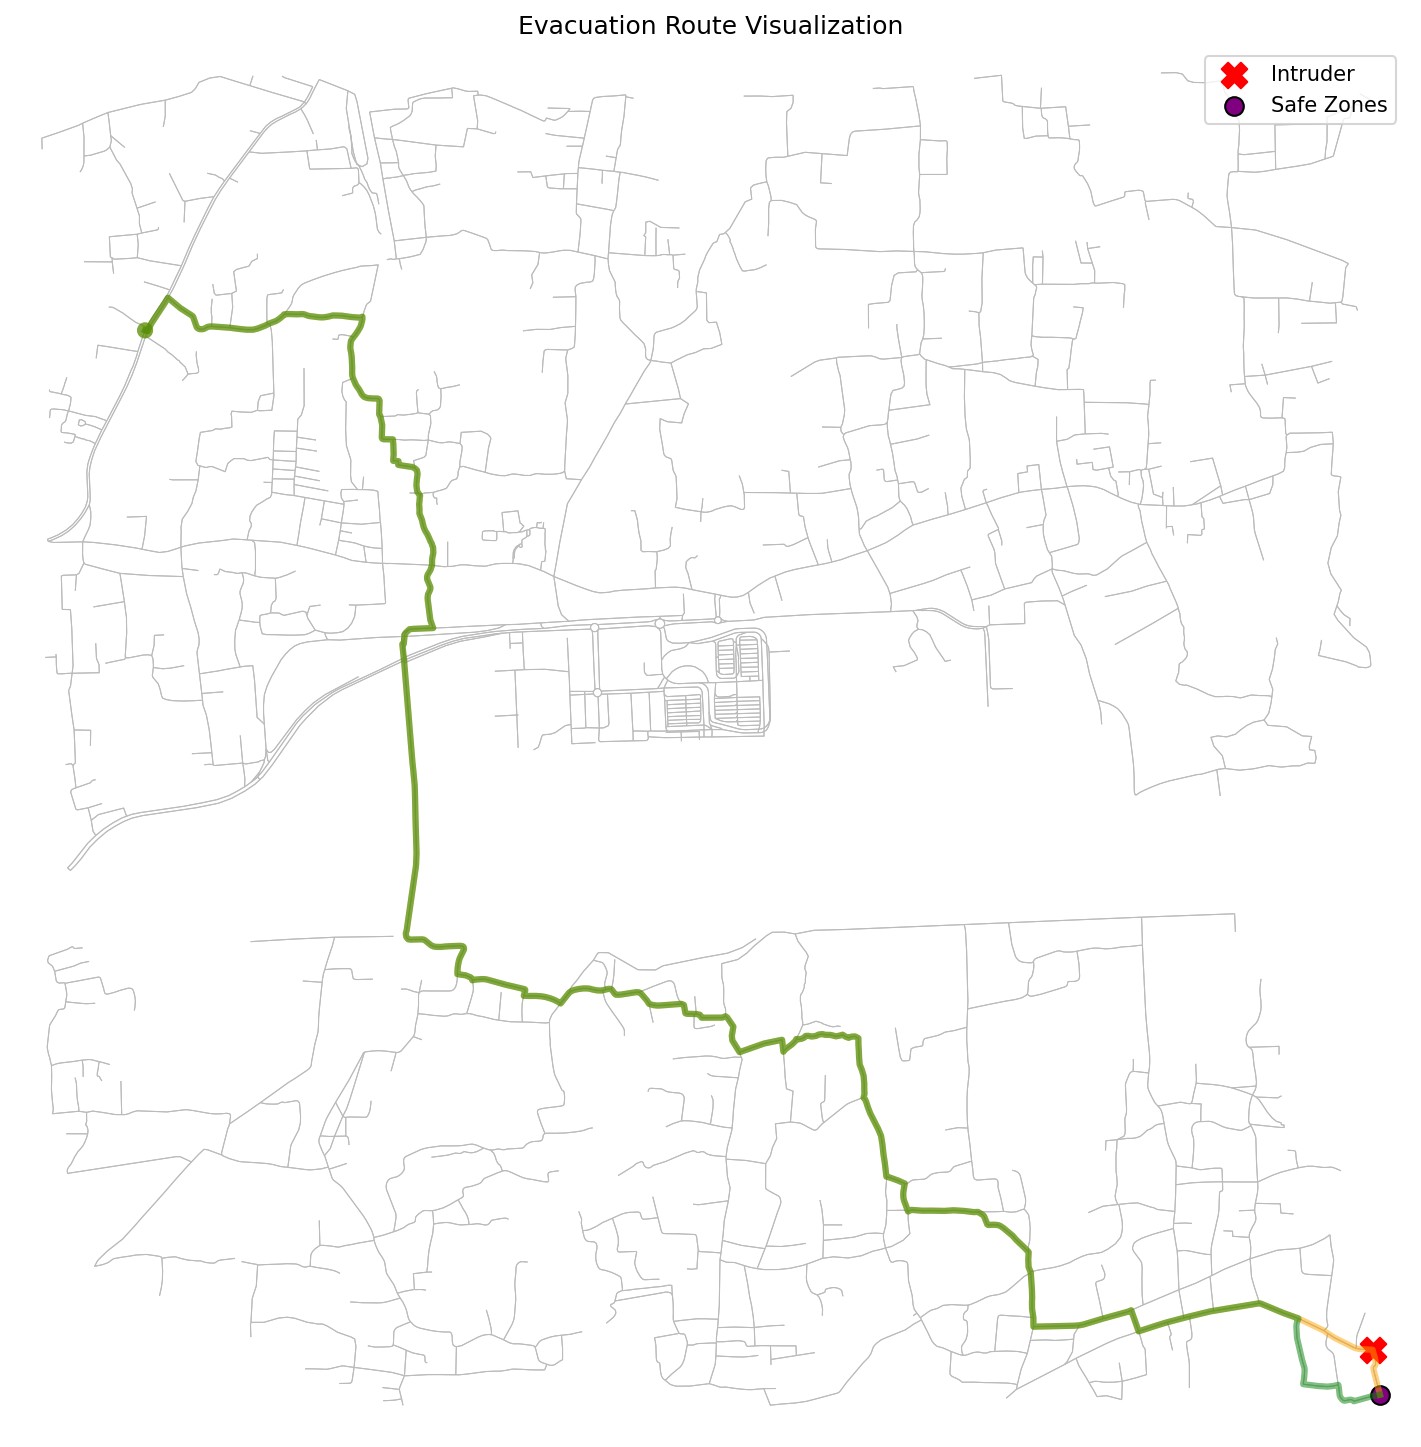
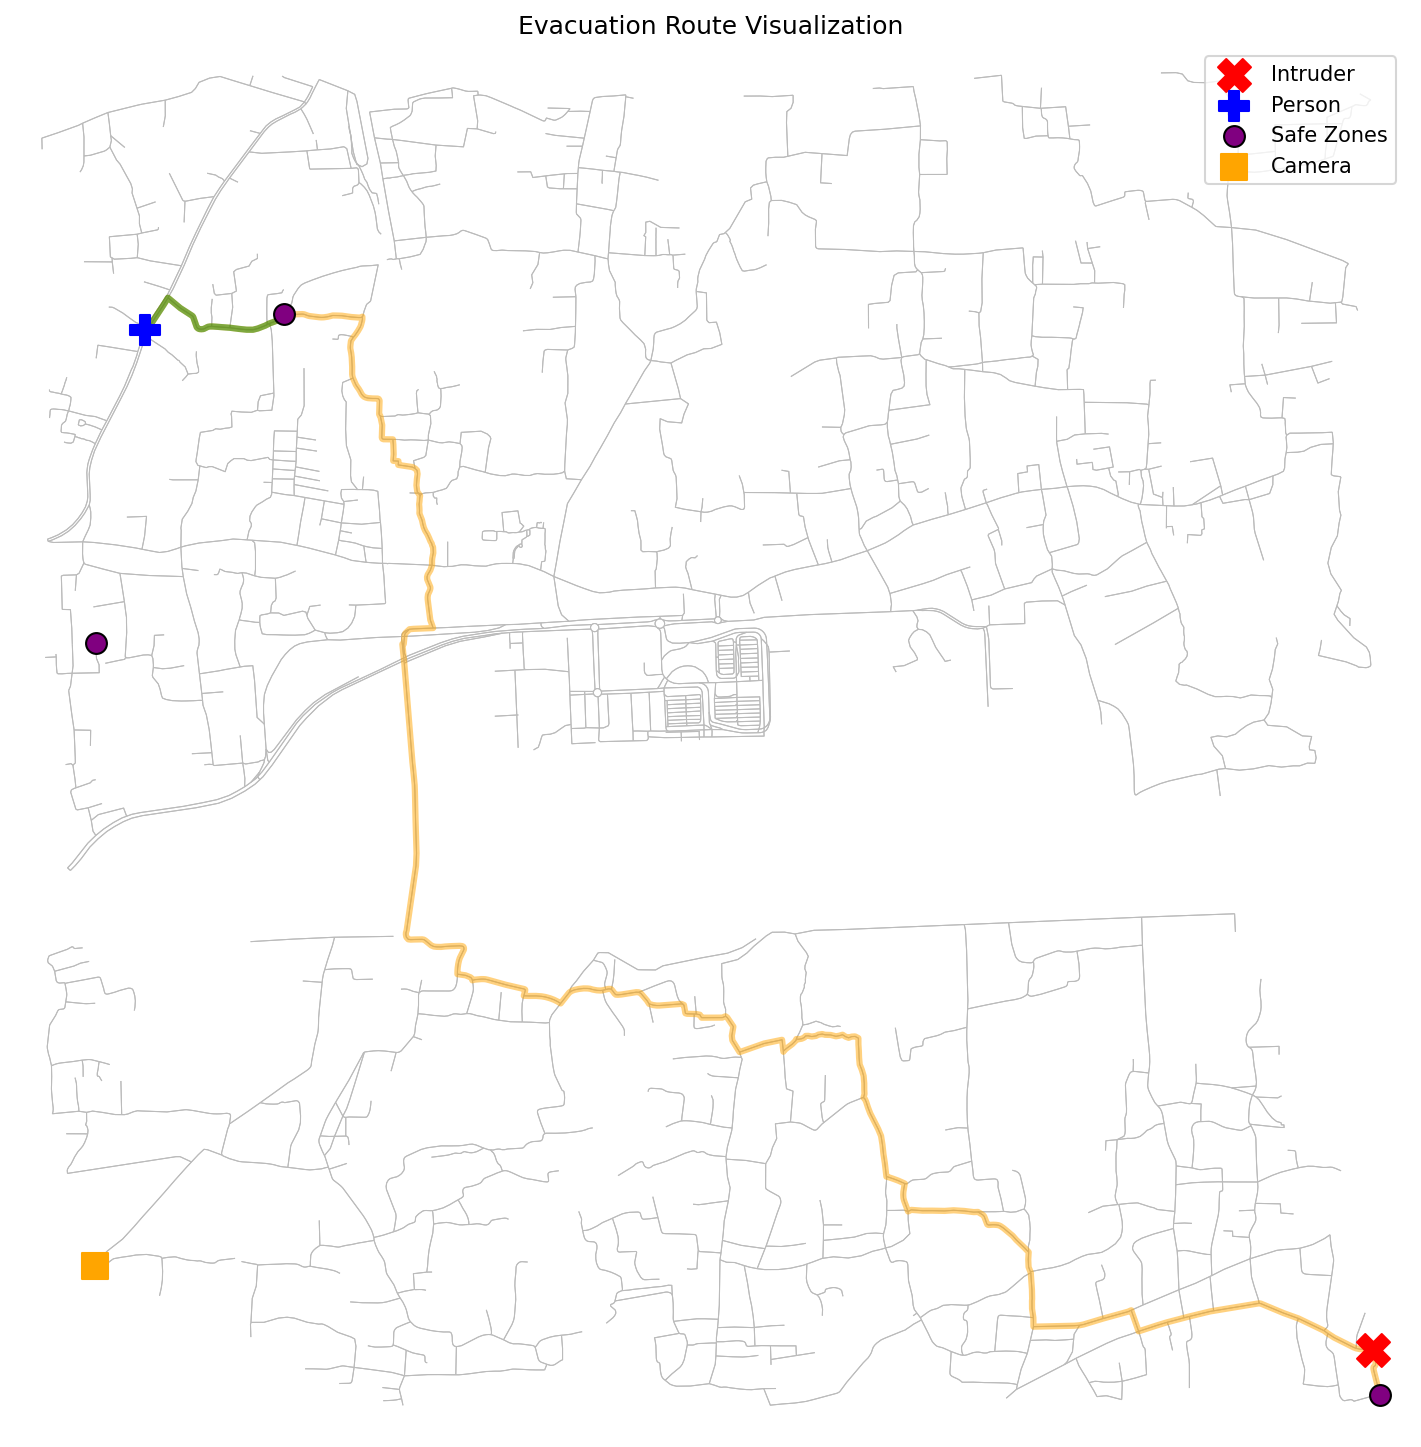
Updated Evacuation Guidance

diff --git a/SENTINEL_EVAC/evacuation/visualize_graph.py b/SENTINEL_EVAC/evacuation/visualize_graph.py
@@ -4,9 +4,17 @@ import osmnx as ox
 import matplotlib.pyplot as plt
 
 
-def visualize_graph_with_paths(G, original_path=None, safe_path=None, intruder_node=None, safe_zone_nodes=None):
+def visualize_graph_with_paths(
+    G,
+    original_path=None,
+    safe_path=None,
+    intruder_node=None,
+    person_node=None,
+    camera_node=None,
+    safe_zone_nodes=None,
+):
     """
-    Visualize graph, evacuation paths, intruder location, and safe zones.
+    Visualize graph, evacuation paths, intruder location, person location, camera location, and safe zones.
     """
 
     print(f"Loaded graph with {len(G.nodes)} nodes and {len(G.edges)} edges")
@@ -57,9 +65,23 @@ def visualize_graph_with_paths(G, original_path=None, safe_path=None, intruder_n
         ax.scatter(
             x, y,
             c="red",
-            s=150,
+            s=250,
             marker="X",
-            label="Intruder"
+            label="Intruder",
+            zorder=10
+        )
+
+    # Plot person
+    if person_node and person_node in G:
+        px = G.nodes[person_node]["x"]
+        py = G.nodes[person_node]["y"]
+        ax.scatter(
+            px, py,
+            c="blue",
+            s=200,
+            marker="P",
+            label="Person",
+            zorder=9
         )
 
     # Plot safe zone nodes
@@ -72,11 +94,25 @@ def visualize_graph_with_paths(G, original_path=None, safe_path=None, intruder_n
                 xs,
                 ys,
                 c="purple",
-                s=80,
+                s=100,
                 marker="o",
                 label="Safe Zones",
-                edgecolors="k"
+                edgecolors="k",
+                zorder=5
             )
+
+    # Plot camera
+    if camera_node and camera_node in G:
+        cx = G.nodes[camera_node]["x"]
+        cy = G.nodes[camera_node]["y"]
+        ax.scatter(
+            cx, cy,
+            c="orange",
+            s=150,
+            marker="s",
+            label="Camera",
+            zorder=6
+        )
 
     ax.legend()
     plt.title("Evacuation Route Visualization")

diff --git a/SENTINEL_EVAC/evacuation/directions.py b/SENTINEL_EVAC/evacuation/directions.py
@@ -1,0 +1,63 @@
+import math
+
+def get_turn_direction(x1, y1, x2, y2, x3, y3):
+    """
+    Determine the relative turn direction (straight, left, right, down) 
+    given three points (two segments: p1->p2 and p2->p3).
+    """
+    angle1 = math.atan2(y2 - y1, x2 - x1)
+    angle2 = math.atan2(y3 - y2, x3 - x2)
+    
+    diff = math.degrees(angle2 - angle1)
+    diff = (diff + 180) % 360 - 180
+    
+    if -45 <= diff <= 45:
+        return "straight"
+    elif 45 < diff < 135:
+        return "left"
+    elif -135 < diff < -45:
+        return "right"
+    else:
+        return "down"
+
+def generate_directions(G, path):
+    """
+    Generate step-by-step generic text directions for a path.
+    """
+    if not path or len(path) < 2:
+        return ["You have arrived."]
+        
+    directions = []
+    
+    # Distances
+    def dist(u, v):
+        edge_data = G.get_edge_data(u, v)
+        if not edge_data:
+            return 0
+        min_key = min(edge_data.keys(), key=lambda k: edge_data[k].get('length', float('inf')))
+        return edge_data[min_key].get('length', 0)
+
+    # Initial Segment
+    u = path[0]
+    v = path[1]
+    seg_length = dist(u, v)
+    
+    for i in range(1, len(path) - 1):
+        x1, y1 = G.nodes[path[i-1]]['x'], G.nodes[path[i-1]]['y']
+        x2, y2 = G.nodes[path[i]]['x'], G.nodes[path[i]]['y']
+        x3, y3 = G.nodes[path[i+1]]['x'], G.nodes[path[i+1]]['y']
+        
+        turn = get_turn_direction(x1, y1, x2, y2, x3, y3)
+        
+        if turn == "straight":
+            # Just accumulate distance
+            seg_length += dist(path[i], path[i+1])
+        else:
+            directions.append(f"Go straight for {round(seg_length, 1)} meters, then turn {turn}.")
+            seg_length = dist(path[i], path[i+1])
+            
+    # Final leg
+    if seg_length > 0:
+        directions.append(f"Go straight for {round(seg_length, 1)} meters to reach the safe zone.")
+        
+    return directions

diff --git a/SENTINEL_EVAC/evacuation/test_graph.py b/SENTINEL_EVAC/evacuation/test_graph.py
@@ -6,9 +6,11 @@ from .evacuation_router import (
 )
 from .intruder_input import load_intruder_from_json
 from .visualize_graph import visualize_graph_with_paths
+from .directions import generate_directions
 
 import networkx as nx
 import os
+import sys
 
 print("=== TEST STARTED ===")
 
@@ -27,10 +29,12 @@ if not os.path.exists(intruder_json):
 intruder = load_intruder_from_json(intruder_json, G)
 start_node = intruder["person_node"]
 intruder_node = intruder["intruder_node"]
+camera_node = intruder.get("camera_node")
 safe_zones = intruder.get("safe_zones", [])
 
 print("Start node (person):", start_node)
 print("Intruder node:", intruder_node)
+print("Camera node:", camera_node)
 print("Safe zones:", safe_zones)
 
 # Choose destination as farthest node from start
@@ -92,6 +96,15 @@ try:
             safe_path = None
 
     print("Reroute reason:", reroute_reason)
+    
+    # Generate and print text directions
+    path_to_use = safe_path if safe_path else original_path
+    if path_to_use:
+        directions = generate_directions(G, path_to_use)
+        print("\n--- TURN-BY-TURN DIRECTIONS ---")
+        for step_num, step in enumerate(directions, 1):
+            print(f"{step_num}. {step}")
+        print("-------------------------------\n")
 
 except Exception as e:
     print("Error:", repr(e))
@@ -106,5 +119,10 @@ if original_path:
         original_path=original_path,
         safe_path=safe_path,
         intruder_node=intruder_node,
+        person_node=start_node,
+        camera_node=camera_node,
         safe_zone_nodes=safe_zones,
     )
+
+import sys
+sys.exit(0)

diff --git a/SENTINEL_EVAC/find_nodes.py b/SENTINEL_EVAC/find_nodes.py
@@ -1,0 +1,31 @@
+import networkx as nx
+from evacuation.graph_loader import load_or_create_graph
+import math
+
+G = load_or_create_graph()
+# use largest cc
+largest_cc = max(nx.weakly_connected_components(G), key=len)
+G = G.subgraph(largest_cc).copy()
+
+person_node = 18306177
+intruder_node = 5973761733
+
+nodes = list(G.nodes(data=True))
+
+# Find 3 safe zones:
+# 1. Very close to person
+# 2. Medium distance
+# 3. Far distance
+def dist(n1, n2):
+    return (G.nodes[n1]['x'] - G.nodes[n2]['x'])**2 + (G.nodes[n1]['y'] - G.nodes[n2]['y'])**2
+
+nodes.sort(key=lambda x: dist(person_node, x[0]))
+# pick nodes at different intervals that are NOT the person or intruder
+safe1 = nodes[50][0] 
+safe2 = nodes[200][0]
+safe3 = list(reversed(nodes))[0][0]
+
+print("Person:", person_node)
+print("Safe1:", safe1)
+print("Safe2:", safe2)
+print("Safe3:", safe3)

diff --git a/SENTINEL_EVAC/evacuation/intruder_input.py b/SENTINEL_EVAC/evacuation/intruder_input.py
@@ -58,10 +58,20 @@ def load_intruder_from_json(json_path, G):
         elif isinstance(zone, int):
             safe_zones.append(zone)
 
+    if "camera_node" in data:
+        camera_node = data["camera_node"]
+    elif "camera_location" in data:
+        lat = data["camera_location"]["lat"]
+        lon = data["camera_location"]["lon"]
+        camera_node = ox.nearest_nodes(G, lon, lat)
+    else:
+        camera_node = None
+
     return {
         "intruder_id": data.get("intruder_id", "intruder"),
         "intruder_node": intruder_node,
         "person_node": person_node,
+        "camera_node": camera_node,
         "radius_meters": radius,
         "safe_zones": safe_zones,
         "threat_level": data.get("threat_level", "unknown"),

diff --git a/SENTINEL_EVAC/run_test_wrapper.py b/SENTINEL_EVAC/run_test_wrapper.py
@@ -1,0 +1,25 @@
+import sys
+import io
+import traceback
+
+class Capture:
+    def __init__(self):
+        self.output = io.StringIO()
+    def write(self, s):
+        self.output.write(s)
+    def flush(self):
+        pass
+
+old_stdout = sys.stdout
+sys.stdout = Capture()
+
+try:
+    from evacuation import test_graph
+except BaseException as e:
+    sys.stdout.write(f"Error/Exit: {e}\n")
+    
+with open("real_output.txt", "w") as f:
+    f.write(sys.stdout.output.getvalue())
+
+sys.stdout = old_stdout
+print("Finished wrapping")

diff --git a/SENTINEL_EVAC/evacuation/evacuation_router.py b/SENTINEL_EVAC/evacuation/evacuation_router.py
@@ -6,6 +6,7 @@ __all__ = [
     "find_shortest_path_nodes",
     "find_safe_path_nodes",
     "path_length",
+    "get_evacuation_route",
 ]
 
 # ---------------------------------------------------

diff --git a/SENTINEL_EVAC/README.md b/SENTINEL_EVAC/README.md
@@ -56,7 +56,9 @@ An example `data/intruder.json` is included. Format:
 ```json
 {
   "intruder_id": "I1",
-  "location": {"lat": 10.1560, "lon": 76.3920},
+  "intruder_location": {"lat": 10.1560, "lon": 76.3920},
+  "person_location": {"lat": 10.1538, "lon": 76.3915},
+  "camera_location": {"lat": 10.1550, "lon": 76.3900},
   "radius_meters": 150,
   "timestamp": "2026-01-20T12:00:00Z",
   "threat_level": "high"
